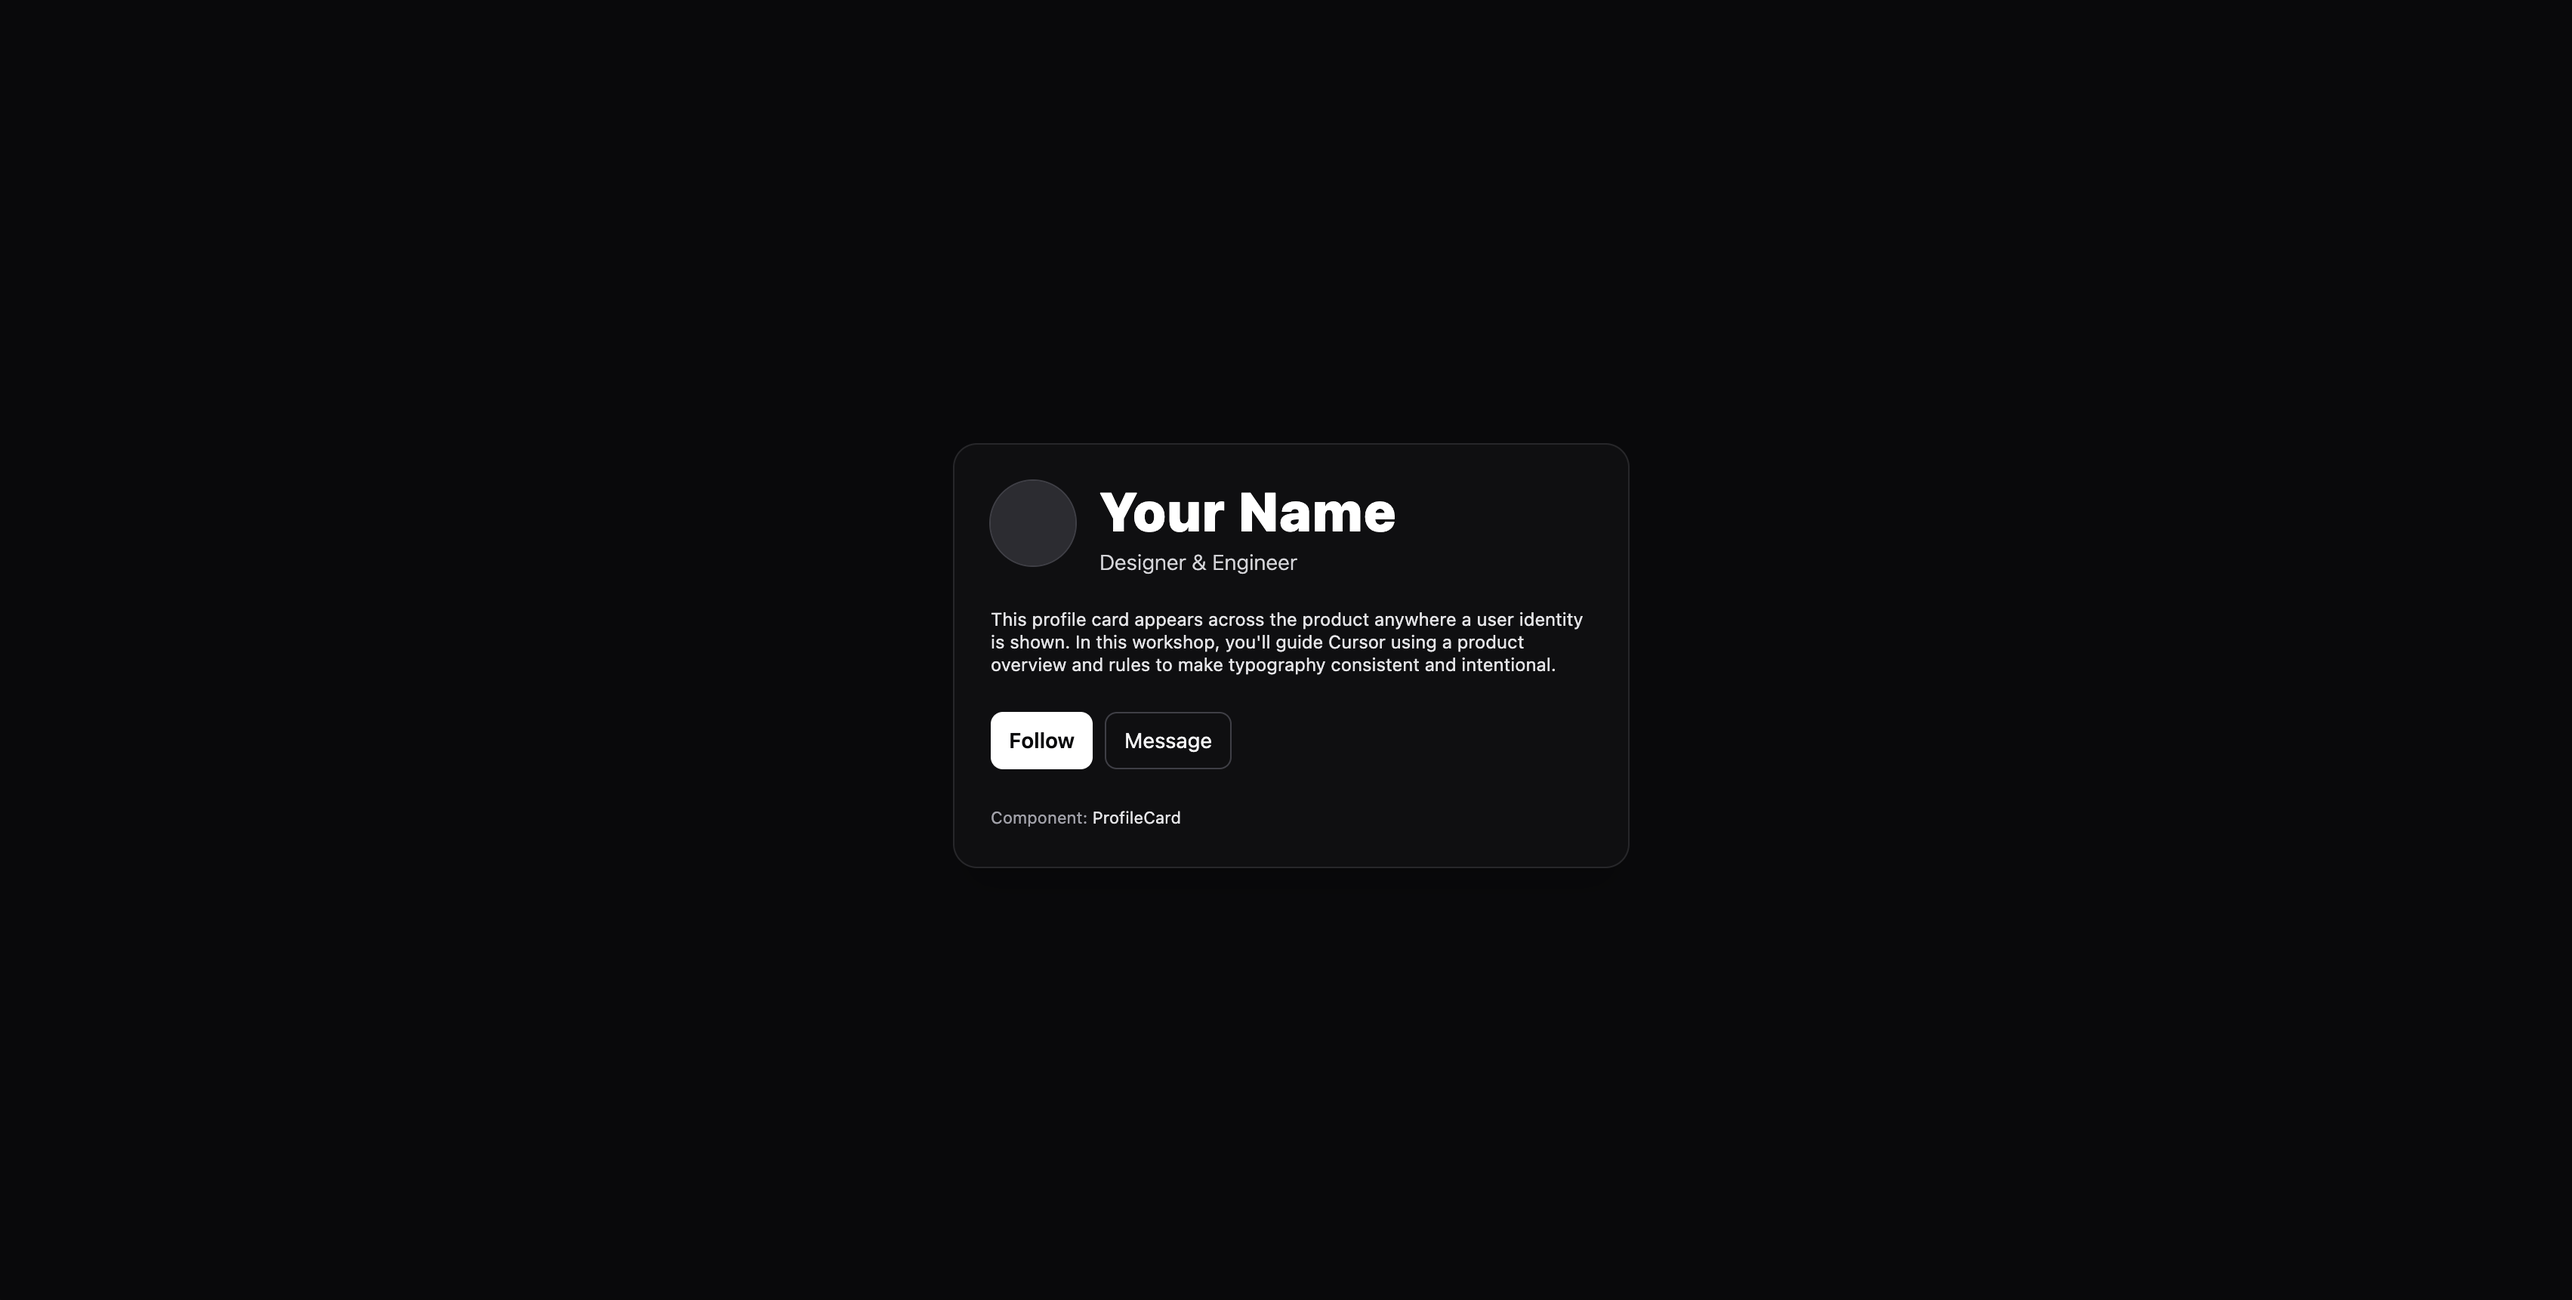
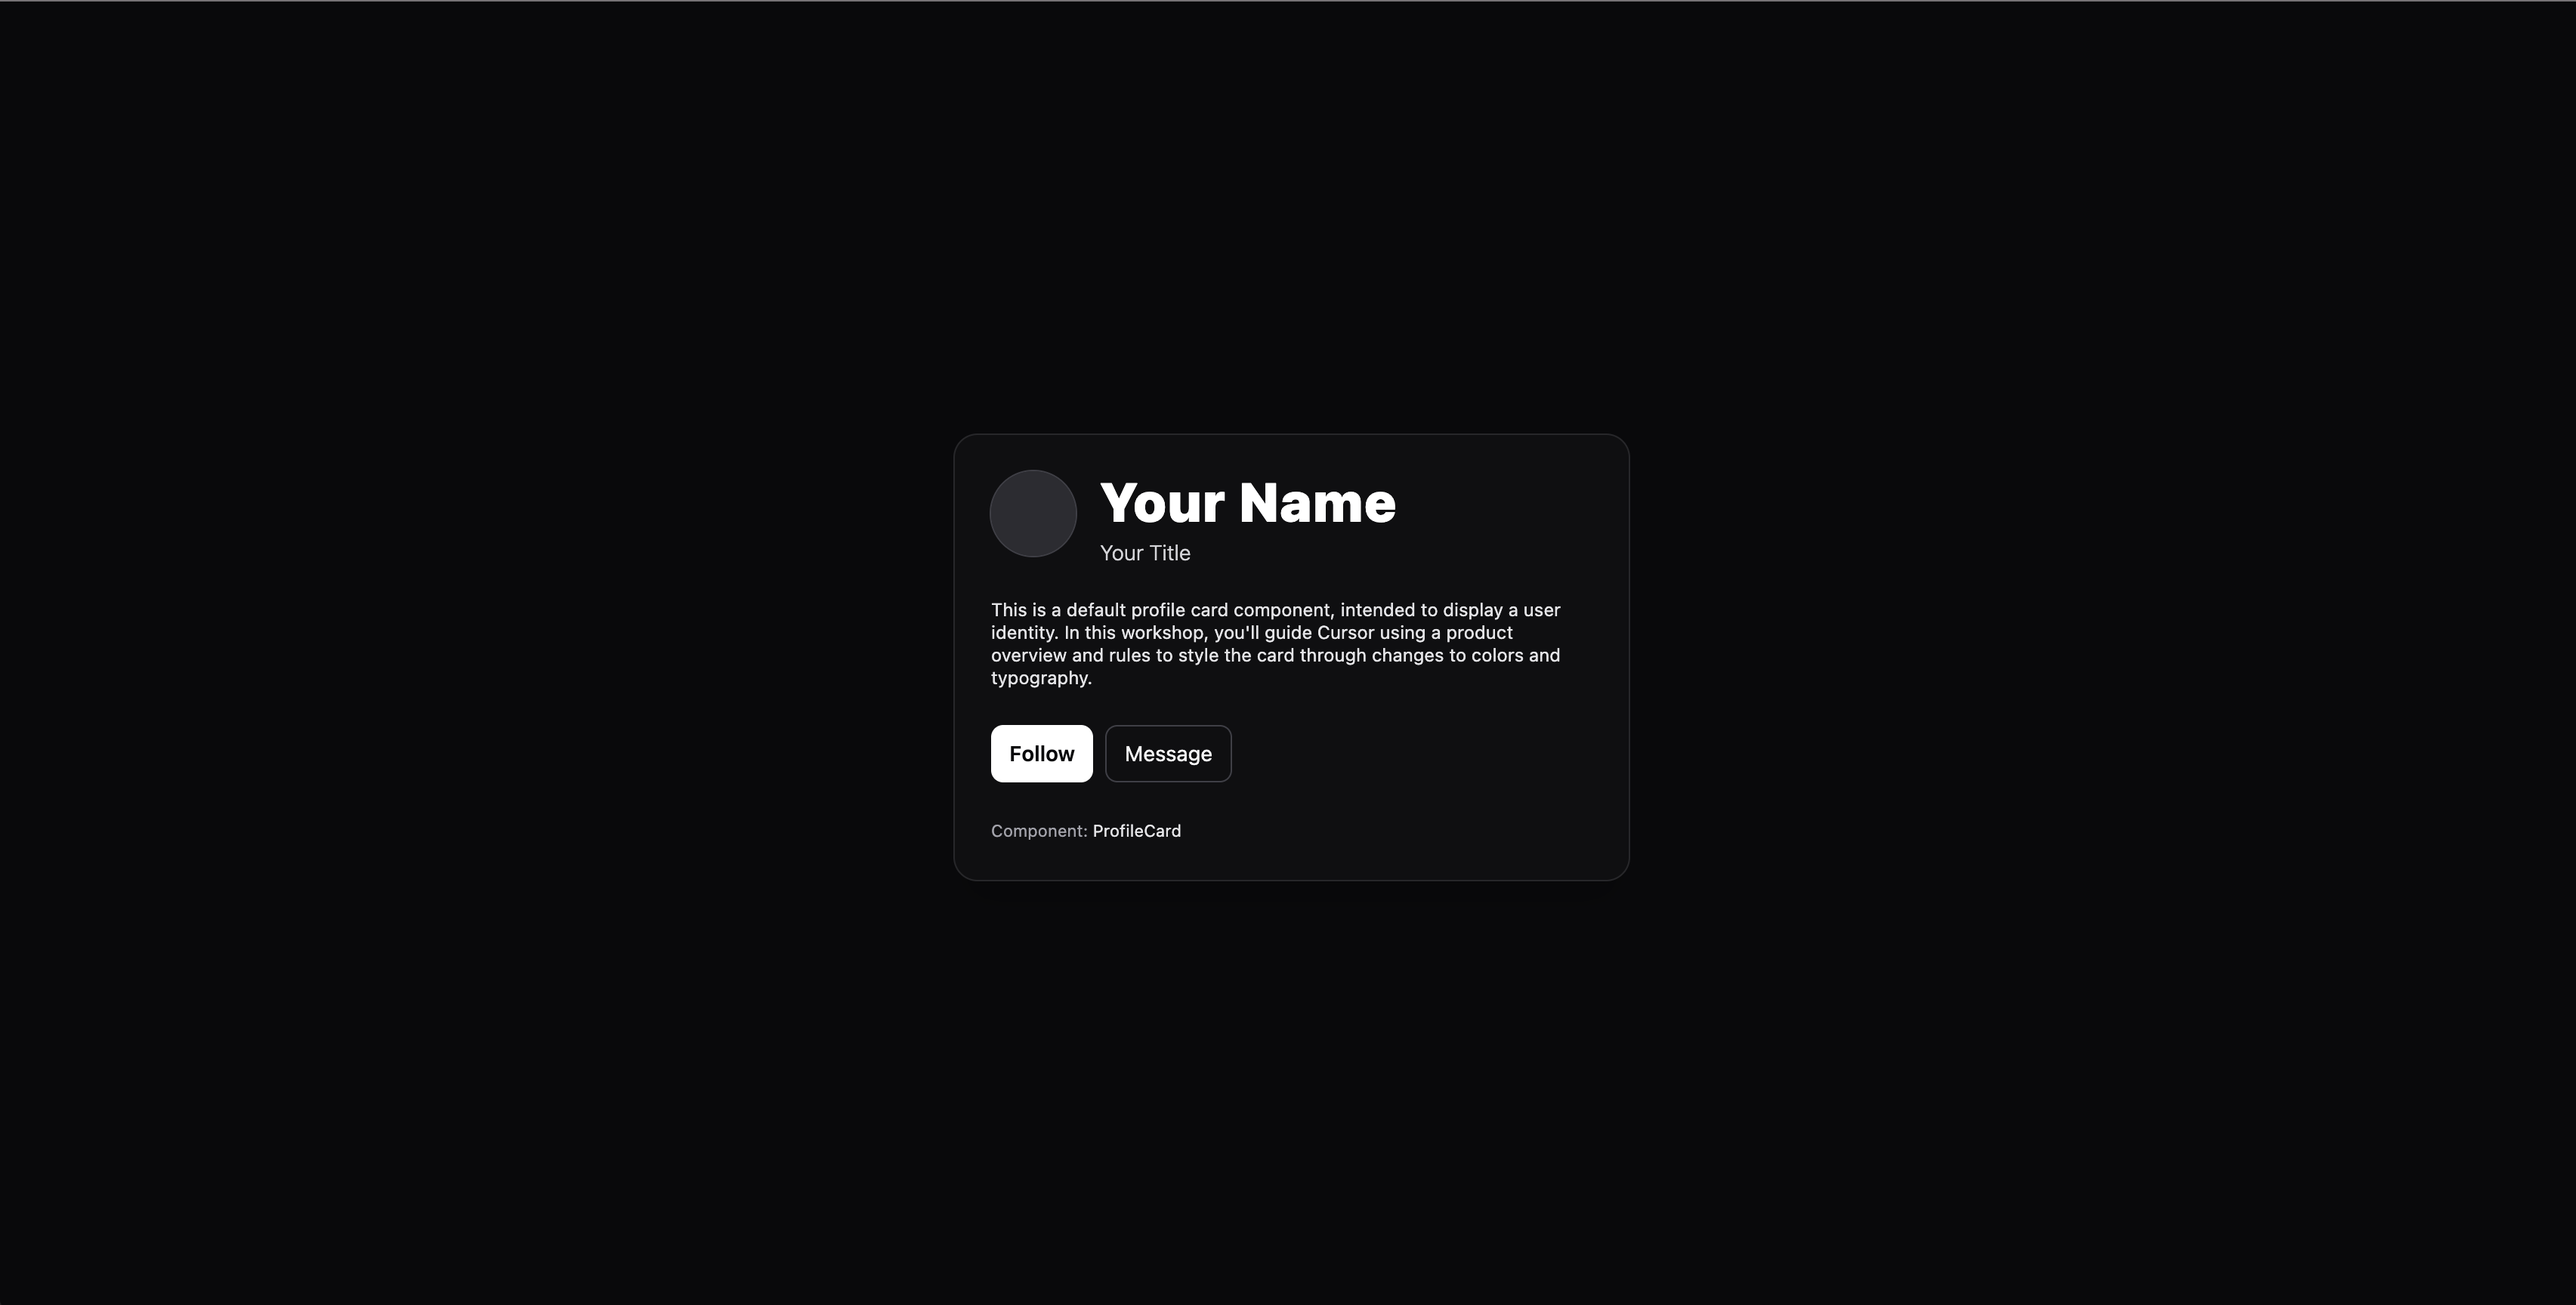
Update default ProfileCard bio and screenshot
App.tsx:
- Revise bio text to better describe the workshop focus
- Emphasize styling via colors and typography (not just typography)
- Shorten and clarify default ProfileCard purpose

images/default-profile-card.png:
- Update screenshot to reflect current ProfileCard default state

Changed region(s): [[0.3735, 0.3693, 0.6224, 0.6463], [0.3735, 0.3386, 0.4046, 0.3693]]

diff --git a/frontend/src/App.tsx b/frontend/src/App.tsx
@@ -5,7 +5,7 @@ export default function App() {
     <ProfileCard
       name="Your Name"
       title="Your Title"
-      bio="This profile card appears across the product anywhere a user identity is shown. In this workshop, you'll guide Cursor using a product overview and rules to make typography consistent and intentional."
+      bio="This is a default profile card component, intended to display a user identity. In this workshop, you'll guide Cursor using a product overview and rules to style the card through changes to colors and typography."
     />
   );
 }
